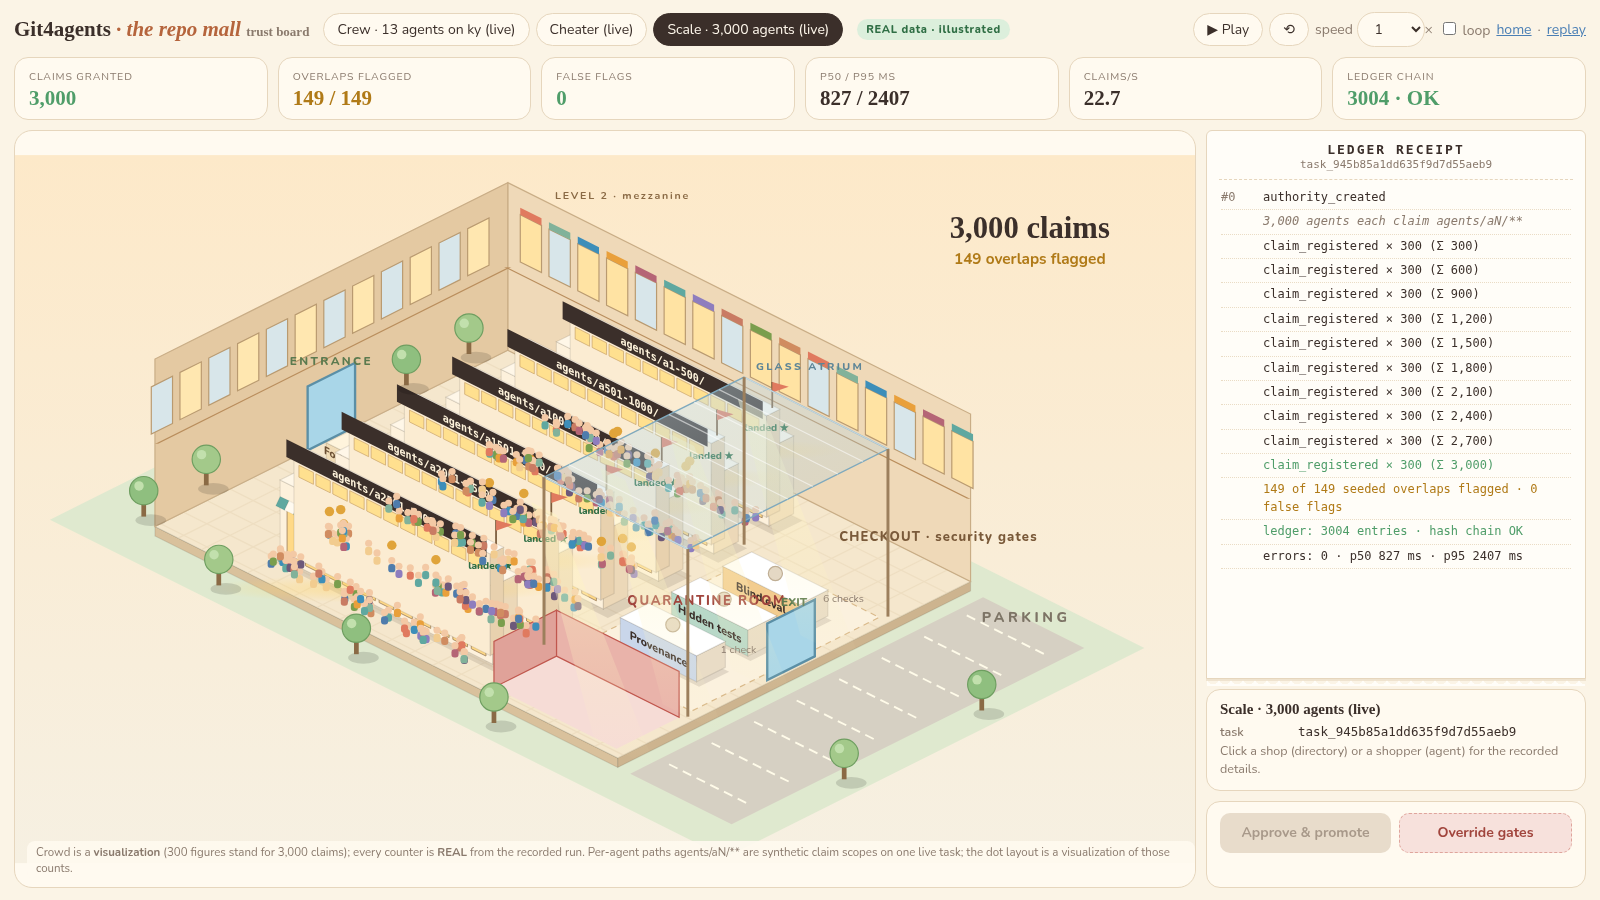
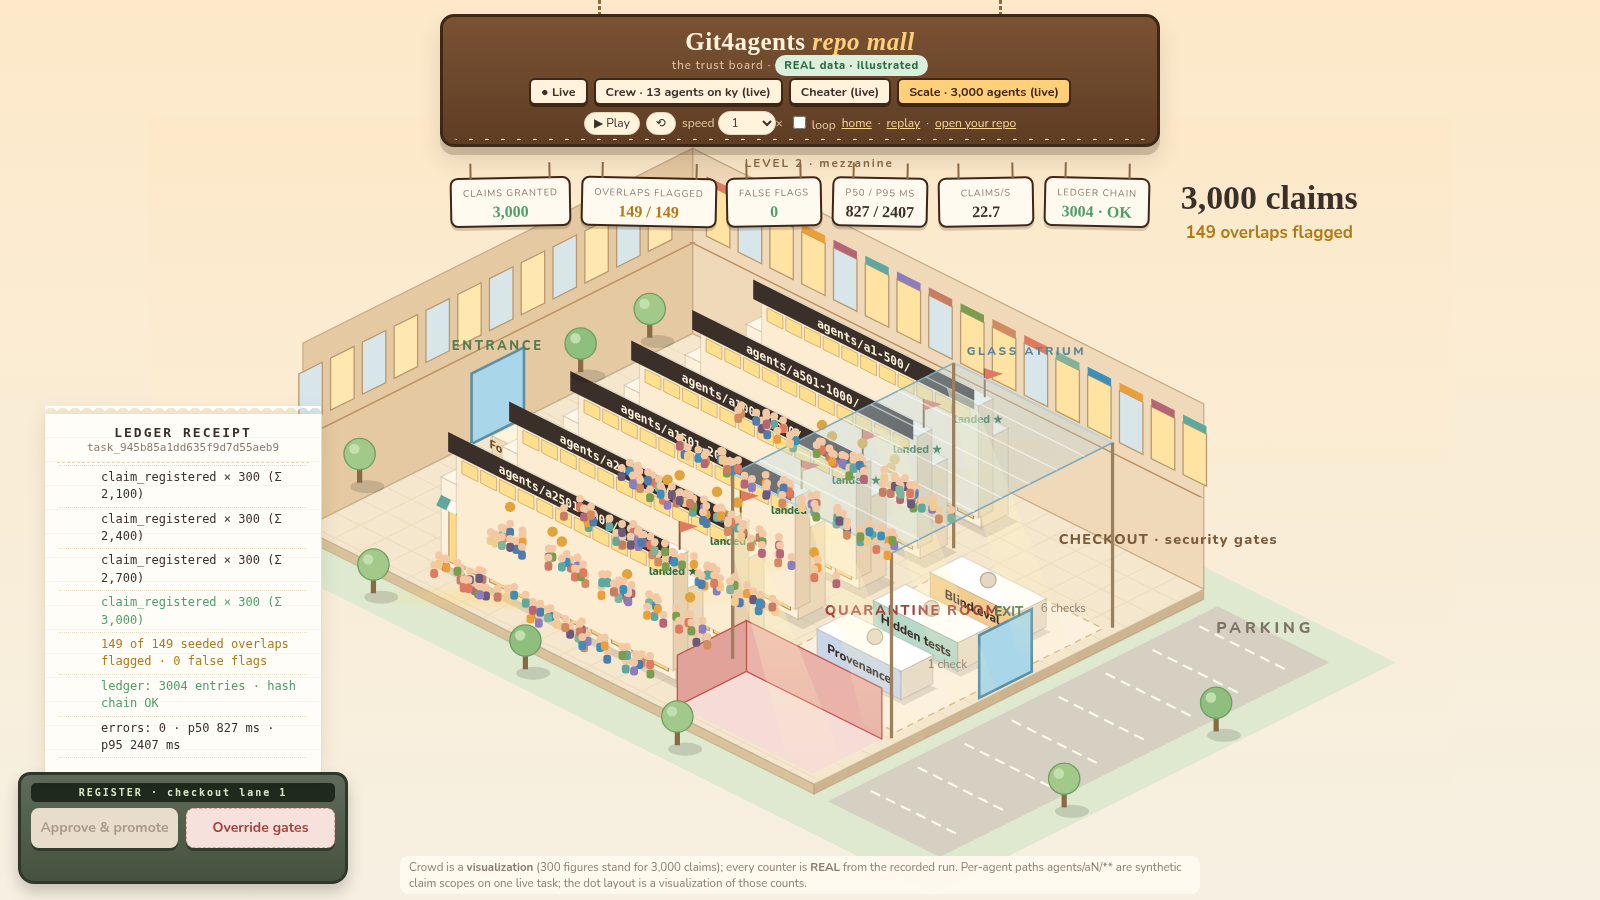
Board: mall-native chrome (hanging marquee, sign tiles, register receipt, price-tag popovers); overlap badges on roofs below shoppers

diff --git a/src/worker/board-page.ts b/src/worker/board-page.ts
@@ -53,16 +53,47 @@ header h1{font:700 21px/1 Georgia,"Iowan Old Style",serif;margin:0}header h1 em{
 .btns{display:flex;gap:8px}.btn{flex:1;padding:9px;border-radius:10px;border:0;font:inherit;font-weight:700;cursor:pointer}.btn.go{background:var(--ok);color:#fff}.btn.go:disabled{background:#e8dccb;color:#a8998a;cursor:not-allowed}.btn.no{background:#f7e1dc;color:#a1453d;border:1.5px dashed #dfa59c;cursor:not-allowed}
 .refuse{color:var(--bad);font-weight:700;font-size:12.5px;margin-top:6px;min-height:17px}
 .chip{display:inline-block;font-size:10.5px;padding:1px 6px;border-radius:5px;margin:1px;background:#efe5d4}.chip.p{background:#dcefdc;color:#2f6e44}.chip.f{background:#f7d9d5;color:#a1453d}
+
+/* mall-native chrome: hanging marquee, receipt printing from the register, price-tag popovers */
+html,body{background:#f6ecd9}
+#app{display:block;position:relative;height:100vh;padding:0}
+#mall{position:absolute;inset:0;border:0;border-radius:0;background:linear-gradient(#fde9c9,#f6f0e2)}
+#mall svg{position:absolute;left:0;right:0;top:118px;bottom:0;height:calc(100% - 118px)}
+#marquee{position:absolute;z-index:20;left:50%;top:0;transform:translateX(-50%);display:flex;flex-direction:column;align-items:center;pointer-events:none}
+#marquee>*{pointer-events:auto}
+.chain{position:absolute;top:0;width:3px;height:16px;background:repeating-linear-gradient(#8a6a45 0 4px,transparent 4px 6px)}.chain.l{left:22%}.chain.r{right:22%}
+#marquee .board{margin-top:14px;background:linear-gradient(#7a5233,#5e3d24);border:3px solid #3e2716;border-radius:14px;padding:8px 22px 9px;box-shadow:0 8px 0 #3e271633,0 14px 24px #3e271622;color:#fff3dc;text-align:center;position:relative;min-width:720px}
+.bulbs{position:absolute;inset:4px;border-radius:10px;pointer-events:none;background:radial-gradient(circle,#ffe08a 0 2.2px,transparent 2.6px) 0 0/16px 16px;-webkit-mask:linear-gradient(#000 0 5px,transparent 5px calc(100% - 5px),#000 calc(100% - 5px));mask:linear-gradient(#000 0 5px,transparent 5px calc(100% - 5px),#000 calc(100% - 5px))}
+#marquee h1{font:700 25px/1.1 Georgia,serif;margin:3px 0 0;letter-spacing:.5px;color:#fff3dc}#marquee h1 em{color:#ffcf7a}
+.tagline{font-size:11.5px;color:#e9cfa8;letter-spacing:1px;margin:1px 0 5px}
+#marquee .sc{justify-content:center;flex-wrap:wrap}#marquee .sc button{border-radius:6px;background:#fff3dc;border:2px solid #3e2716;font-weight:700;font-size:12.5px;padding:3px 10px;box-shadow:0 2px 0 #3e2716}
+#marquee .sc button[aria-pressed=true]{background:#ffcf7a;color:#3e2716}
+#marquee .ctl{margin:6px 0 0;justify-content:center;color:#e9cfa8;font-size:12px}#marquee .ctl button,#marquee .ctl select{padding:2px 9px;font-size:12px;background:#fff3dc}#marquee .ctl a{color:#ffd99a}
+#stats{display:flex;gap:10px;margin-top:0;justify-content:center}
+#stats .st{position:relative;margin-top:16px;border-radius:8px;border:2px solid #3e2716;background:#fffaf0;padding:3px 11px 4px;min-width:96px;text-align:center;box-shadow:0 3px 0 #3e271633;transform:rotate(-1deg)}
+#stats .st:nth-child(even){transform:rotate(1.2deg)}
+#stats .st:before,#stats .st:after{content:"";position:absolute;top:-16px;width:2px;height:16px;background:#8a6a45}#stats .st:before{left:18px}#stats .st:after{right:18px}
+#stats .st small{font-size:9.5px}#stats .st div{font-size:16px}
+#legend{left:50%;transform:translateX(-50%);bottom:6px;z-index:5}
+#register{position:absolute;left:18px;bottom:16px;width:330px;height:min(56vh,470px);display:flex;flex-direction:column;justify-content:flex-end;z-index:10}
+#register .receipt{flex:1;margin:0 26px;border-radius:0;border:0;border-left:1px solid #eadcc5;border-right:1px solid #eadcc5;box-shadow:0 0 18px #3e27161a;background:#fffdf8 repeating-linear-gradient(#fffdf8 0 23px,#fbf4e6 23px 24px)}
+#register .receipt:after{top:-8px;bottom:auto;transform:rotate(180deg)}
+.till{background:linear-gradient(#5e6b5a,#46523f);border:3px solid #2f382a;border-radius:12px 12px 16px 16px;padding:8px 10px 10px;box-shadow:0 8px 16px #0003}
+.till-top{font:700 10px ui-monospace,Menlo,monospace;color:#d8e6c8;letter-spacing:2px;text-align:center;margin-bottom:6px;background:#1f2a1c;border-radius:5px;padding:4px}
+.till .btn{border-radius:8px;box-shadow:0 3px 0 #0005}.till .refuse{color:#ffb4a8}
+.tagcard{position:absolute;z-index:30;width:300px;max-height:60vh;overflow:auto;background:#fff6dc;border:2px solid #b98f4f;border-radius:6px 22px 22px 6px;padding:12px 16px 12px 30px;box-shadow:4px 6px 0 #b98f4f44,0 14px 30px #3e271626;transform:rotate(-1.5deg);font-size:12.5px}
+.tagcard:before{content:"";position:absolute;left:10px;top:16px;width:10px;height:10px;border-radius:50%;background:#f6ecd9;border:2px solid #b98f4f}
+.tagcard .x{position:absolute;right:10px;top:6px;border:0;background:none;font-size:16px;cursor:pointer;color:#8a6a45}
+.tagcard h3{font:700 15px Georgia,serif;margin:0 0 5px}.tagcard .row{margin:2px 0}.tagcard .row b{color:#8a7a6d;font-weight:600;display:inline-block;min-width:70px}
 </style></head><body><div id="app">
-<header><h1>Git4agents <em>· the repo mall</em> <span style="font-size:13px;color:var(--dim);font-family:inherit;font-style:normal">trust board</span></h1><div class="sc" id="sc"></div><span id="badge" class="badge real">REAL</span>
-<div class="ctl"><button id="play">▶ Play</button><button id="restart" title="restart">⟲</button><label>speed <select id="speed"><option>0.5</option><option selected>1</option><option>2</option><option>4</option></select>×</label><label><input type="checkbox" id="loop"> loop</label><a href="/">home</a>·<a href="/replay">replay</a></div></header>
-<section id="stats"></section>
-<main id="mall"><svg id="svg" viewBox="0 0 1000 600" preserveAspectRatio="xMidYMid meet" role="img" aria-label="Mall floor plan"></svg><div id="legend"></div></main>
-<aside id="side">
-<div class="receipt"><h2>LEDGER RECEIPT</h2><div class="sub" id="rxsub"></div><div id="rx"></div></div>
-<div class="panel" id="det"><h3>Click a shop or a shopper</h3><div class="row" style="color:var(--dim)">Shops are the repo's directories, shelf items are the files agents claimed. Every detail shown is from the recorded run.</div></div>
-<div class="panel"><div class="btns"><button class="btn go" id="approve" disabled>Approve &amp; promote</button><button class="btn no" id="override">Override gates</button></div><div class="refuse" id="refuse"></div></div>
-</aside></div>
+<header id="marquee"><i class="chain l"></i><i class="chain r"></i><div class="board"><div class="bulbs"></div><h1>Git4agents <em>repo mall</em></h1><div class="tagline">the trust board · <span id="badge" class="badge real">REAL</span></div>
+<div class="sc" id="sc"></div>
+<div class="ctl"><button id="play">▶ Play</button><button id="restart" title="restart">⟲</button><label>speed <select id="speed"><option>0.5</option><option selected>1</option><option>2</option><option>4</option></select>×</label><label><input type="checkbox" id="loop"> loop</label><a href="/">home</a>·<a href="/replay">replay</a>·<a href="/board/new">open your repo</a></div></div>
+<section id="stats"></section></header>
+<main id="mall"><svg id="svg" viewBox="0 0 1000 600" preserveAspectRatio="xMidYMid meet" role="img" aria-label="Mall floor plan"></svg><div id="legend"></div>
+<div id="register"><div class="receipt"><h2>LEDGER RECEIPT</h2><div class="sub" id="rxsub"></div><div id="rx"></div></div>
+<div class="till"><div class="till-top">REGISTER · checkout lane 1</div><div class="btns"><button class="btn go" id="approve" disabled>Approve &amp; promote</button><button class="btn no" id="override">Override gates</button></div><div class="refuse" id="refuse"></div></div></div>
+<div class="tagcard" id="det" hidden></div></main>
 <script>
 (function(){
 var D=__DATA__;
@@ -92,7 +123,8 @@ function led(cls,seq,label){var e=(sc.ledger||[])[seq];rx(cls,seq,label||(e?e.ki
 function ledKind(cls,kind,label){(sc.ledger||[]).forEach(function(e){if(e.kind===kind)led(cls,e.seq,label)})}
 function stat(i,v,c){var n=document.querySelectorAll(".st")[i];if(!n)return;n.querySelector("div").textContent=v;n.className="st "+(c||"")}
 function stats(arr){$("stats").innerHTML=arr.map(function(a){return '<div class="st '+(a[2]||"")+'"><small>'+esc(a[0])+'</small><div>'+esc(a[1])+'</div></div>'}).join("")}
-function det(h){$("det").innerHTML=h}
+var lastPt=[500,300];svg.addEventListener("click",function(e){var r=$("mall").getBoundingClientRect();lastPt=[e.clientX-r.left,e.clientY-r.top]},true);
+function det(h,quiet){var d=$("det");if(quiet)return;d.innerHTML='<button class="x" aria-label="close">×</button>'+h;d.hidden=false;var r=$("mall").getBoundingClientRect();d.style.left=Math.max(360,Math.min(r.width-320,lastPt[0]+18))+"px";d.style.top=Math.max(130,Math.min(r.height-260,lastPt[1]-40))+"px";d.querySelector(".x").onclick=function(){d.hidden=true}}
 function short(s){return s?String(s).slice(0,12):"—"}
 // ---------- the building (2.5D isometric) ----------
 function P(x,y){return [(x-y)*0.53+390,(x+y)*0.265+150]}
@@ -161,8 +193,7 @@ function floor(){svg.innerHTML="";
  // exit doors and trees
  var ex=up(P(810,300),8);poly(null,[up(P(805,262),8),up(P(805,338),8),up(P(805,338),56),up(P(805,262),56)],"#a9d6e8",{stroke:"#5b8fa6","stroke-width":2});T("EXIT",{x:ex[0],y:ex[1]-54,"text-anchor":"middle","font-size":10,"font-weight":800,fill:"#5b7a4f"});
  [[30,40],[30,140],[30,460],[30,560],[200,610],[420,610],[640,610],[1010,200],[1010,420]].forEach(function(t,i){var b3=P(t[0],t[1]);S("ellipse",{cx:b3[0]+6,cy:b3[1]+3,rx:13,ry:5,fill:"#0002"});S("rect",{x:b3[0]-2,y:b3[1]-14,width:4,height:14,fill:"#8a6a45"});S("circle",{cx:b3[0],cy:b3[1]-22,r:12,fill:i%2?"#8fbf7f":"#a3c98a",stroke:"#6e9e60"});S("circle",{cx:b3[0]-4,cy:b3[1]-26,r:4,fill:"#c2e0ad"})});
- LAYER.fx=S("g");LAYER.people=S("g");
- svg.appendChild(at);
+ LAYER.fx=S("g");svg.appendChild(at);LAYER.people=S("g");
 }
 function drawShop(sh){var g=sh.g;while(g.firstChild)g.removeChild(g.firstChild);var x=sh.x,y=sh.y,w=sh.w,d=sh.d,L=sh.level,bad=sh.bad,c=bad?"#a99d90":AWN[sh.i%AWN.length];
  var H=24+L*14,front=y+d;shade(g,x,y,w,d,18);
@@ -197,7 +228,7 @@ function person(id,i,label){var g=S("g",{"class":"who still"},LAYER.people);var 
  var bag=S("g",{opacity:0},g);S("rect",{x:6,y:-3,width:8,height:9,rx:1.5,fill:"#f2cc8f",stroke:"#b98f4f"},bag);S("path",{d:"M8 -3v-2h4v2",fill:"none",stroke:"#b98f4f"},bag);
  T(label||id,{x:0,y:24,"text-anchor":"middle","font-size":9.5,"font-weight":700,fill:"#3b2f2a",stroke:"#fffaf0","stroke-width":3,"paint-order":"stroke"},g);
  var p={id:id,g:g,x:20,y:300,bag:bag,color:c};place(p);g.onclick=function(){showAgent(id)};people[id]=p;return p}
-function flagAt(x,y,txt,color){var q=up(P(x,y),40);var g=S("g",{"class":"pop"},LAYER.fx);var gg=S("g",{"class":"flag"},g);var w=txt.length*5.8+14;
+function flagAt(x,y,txt,color,lift){var q=up(P(x,y),lift||40);var g=S("g",{"class":"pop"},LAYER.fx);var gg=S("g",{"class":"flag"},g);var w=txt.length*5.8+14;
  S("rect",{x:q[0]-w/2,y:q[1]-22,width:w,height:17,rx:8,fill:color||"#e0a43a"},gg);T(txt,{x:q[0],y:q[1]-10,"text-anchor":"middle","font-size":10,"font-weight":800,fill:"#fff"},gg);return g}
 function lamp(i,ok){var l=$("lamp"+i);if(l)l.setAttribute("fill",ok?"#4f9d69":"#d2544c");var g=$("glow"+i);if(g)g.setAttribute("opacity",ok?1:0)}
 function lampsReset(){for(var i=0;i<3;i++){var l=$("lamp"+i);if(l)l.setAttribute("fill","#e4d8c4");var g=$("glow"+i);if(g)g.setAttribute("opacity",0)}}
@@ -235,7 +266,7 @@ function crew(){var A=sc.agents,ev=sc.evals[0];buildShops(A);
  A.slice(1).forEach(function(a,i){var f=a.paths[0],sh=shopOf(f),s=sh.slots[f];W(260,function(){var p=people[a.id];p.y=270+((i*7)%60);place(p);move(p,[[110,p.y],[190,s[1]+18],[s[0]+(i%2?8:-8),s[1]+18]],1900)})});
  W(1700,function(){ledKind("","claim_registered","claim_registered");A.slice(1).forEach(function(a){var sh=shopOf(a.paths[0]);take(sh,a.paths[0]);setLevel(sh,2);people[a.id].bag.setAttribute("opacity",1)})});
  W(1500,function(){var seen={};sc.overlaps.forEach(function(o){var sub=o.a==="parent"?o.b:o.a,ag=A.filter(function(x){return x.id===sub})[0];if(!ag)return;var sh=shopOf(ag.paths[0]);if(seen[sh.name])return;seen[sh.name]=1;
-   flagAt(sh.x+sh.w-30,sh.y+sh.d,"overlap ×"+sc.overlaps.filter(function(q){var s2=q.a==="parent"?q.b:q.a;var g=A.filter(function(x){return x.id===s2})[0];return g&&shopOf(g.paths[0])===sh}).length,"#e0a43a")});
+   flagAt(sh.x+sh.w-14,sh.y+4,"⚠ overlap ×"+sc.overlaps.filter(function(q){var s2=q.a==="parent"?q.b:q.a;var g=A.filter(function(x){return x.id===s2})[0];return g&&shopOf(g.paths[0])===sh}).length,"#e0a43a",sh.level>=3?84:64)});
   rx("amb",null,sc.overlaps.length+" overlaps flagged (each sub ∩ parent fork scope)","AMBER")});
  W(2000,function(){A.forEach(function(a,i){move(people[a.id],[[580,150+((i*23)%300)],[748,180+(i%3)*82+20]],1800)});ledKind("","composition_recorded","composition_recorded · "+sc.composed)});
  W(1200,function(){ledKind("","contender_registered");ledKind("","evaluation_submitted","evaluation_submitted · "+short(ev.sha))});
@@ -258,7 +289,7 @@ function cheater(){var A=sc.agents,byA={};sc.evals.forEach(function(e){byA[e.age
  W(400,function(){led("",0);led("",1);led("",2)});
  A.forEach(function(a,i){W(500,function(){var p=people[a.id];p.y=285+i*14;place(p);move(p,[[138,330+i*6],[190,slot[1]+20],[slot[0]-26+i*26,slot[1]+20]],2000)})});
  W(1900,function(){ledKind("ok","agents_enrolled","agents_enrolled · 3");ledKind("","claim_registered","claim_registered");take(hs,"source/MADGRIX_HONEST.md");setLevel(hs,2);
-  flagAt(slot[0],hs.y+hs.d,"3 at one shelf · overlap ×"+sc.overlaps.length,"#e0a43a");rx("amb",null,"overlap: all three claim source/MADGRIX_HONEST.md","AMBER")});
+  flagAt(hs.x+hs.w-40,hs.y+4,"⚠ 3 at one shelf · overlap ×"+sc.overlaps.length,"#e0a43a",66);rx("amb",null,"overlap: all three claim source/MADGRIX_HONEST.md","AMBER")});
  W(1500,function(){people["honest-ana"].bag.setAttribute("opacity",1);var tsl=ts.slots["test/base-url.ts"];move(people["cheater-cal"],[[190,tsl[1]+20],[tsl[0],tsl[1]+20]],1600);rx("bad",null,"cheater-cal sneaks to test/ and edits test/base-url.ts","eval file")});
  W(1800,function(){take(ts,"test/base-url.ts");people["cheater-cal"].bag.setAttribute("opacity",1);
   move(people["false-done-fay"],[[580,260],[748,372]],1700);move(people["honest-ana"],[[580,220],[748,290]],1800);move(people["cheater-cal"],[[580,200],[748,206]],2000)});
@@ -333,7 +364,7 @@ function load(id){if(id==="live")return startLive();LIVE.on=false;clearTimeout(L
  document.querySelectorAll(".sc button").forEach(function(b){b.setAttribute("aria-pressed",b.dataset.id===sc.id)});
  $("badge").textContent=sc.badge+" data · illustrated";$("badge").className="badge "+(sc.badge==="REAL"?"real":"viz");
  common();({crew:crew,cheater:cheater,scale:scale})[sc.id]();
- det('<h3>'+esc(sc.label)+'</h3><div class="row"><b>task</b><span class="mono">'+esc(sc.task)+'</span></div><div class="row" style="color:var(--dim)">Click a shop (directory) or a shopper (agent) for the recorded details.</div>')}
+ $("det").hidden=true;det('<h3>'+esc(sc.label)+'</h3><div class="row"><b>task</b><span class="mono">'+esc(sc.task)+'</span></div><div class="row" style="color:var(--dim)">Click a shop (directory) or a shopper (agent) for the recorded details.</div>',true)}
 function step(){if(si>=steps.length){if($("loop").checked&&playing){var id=sc.id;load(id);playing=true;$("play").textContent="❚❚ Pause"}else{stop();return}}
  var s=steps[si++];s.fn();if(playing)timer=setTimeout(step,s.ms/speed())}
 function runTo(n){instant=true;tweens=[];while(si<n&&si<steps.length)steps[si++].fn();instant=false;Object.keys(people).forEach(function(k){people[k].g.classList.add("still")})}
